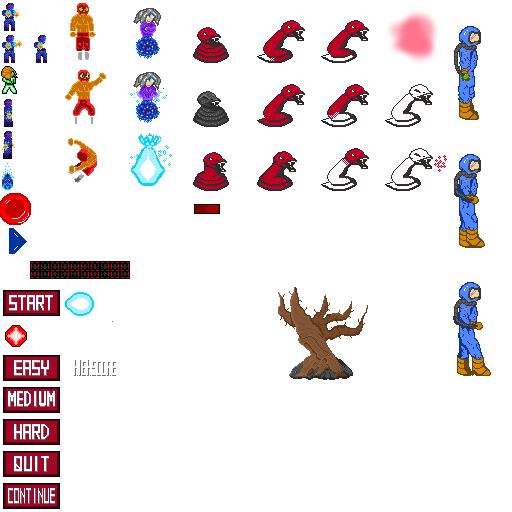
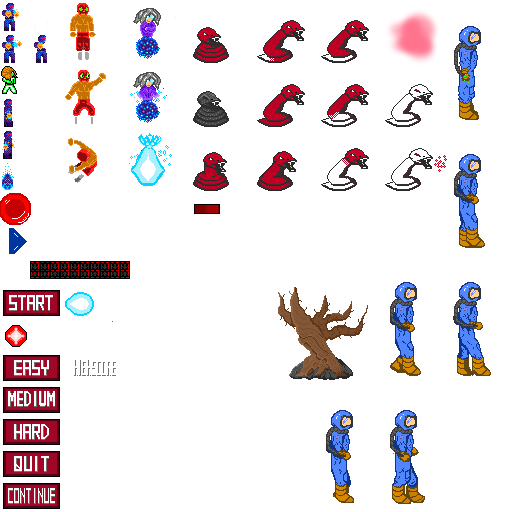
Se agregaron mas frames de animacion al personaje cuando camina.

Changed region(s): [[0.75, 0.7812, 0.8438, 1.0], [0.75, 0.5312, 0.8438, 0.75], [0.625, 0.7812, 0.6875, 1.0]]

diff --git a/app/src/main/java/com/jgame/elements/MainCharacter.java b/app/src/main/java/com/jgame/elements/MainCharacter.java
@@ -69,7 +69,10 @@ public class MainCharacter extends GameCharacter {
     public final static TextureData INIT_MOV_A = TextureDrawer.genTextureData(1,1,16);
     public final static TextureData ACTIVE_MOV_A = TextureDrawer.genTextureData(1,2,16);
     public final static TextureData MOVING_A = new TextureData(0.875f, 0.25f, 1, 0.5f);
-    public final static TextureData MOVING_B = new TextureData(0.875f, 0.5f, 1, 0.75f);;
+    public final static TextureData MOVING_B = new TextureData(0.875f, 0.5f, 1, 0.75f);
+    public final static TextureData MOVING_C = new TextureData(0.75f, 0.5f, 0.875f, 0.75f);
+    public final static TextureData MOVING_D = new TextureData(0.625f, 0.75f, 0.75f, 1f);
+    public final static TextureData MOVING_E = new TextureData(0.75f, 0.75f, 0.875f, 1f);
     public static final int SPRITE_LENGTH = 75;
     public static final int CHARACTER_LENGTH = 40;
     public static final int CHARACTER_HEIGHT = 160;
@@ -77,7 +80,7 @@ public class MainCharacter extends GameCharacter {
     public final int HEIGHT_MOVE_A = CHARACTER_HEIGHT;
     private final int KNOCKDOWN_FRAMES = 18;
     private final int INITIAL_HP = 1000;
-    private final AnimationData WALKING_ANIMATION = new AnimationData(15, true, new TextureData[]{MOVING_A, MOVING_B});
+    private final AnimationData WALKING_ANIMATION = new AnimationData(15, true, new TextureData[]{MOVING_A, MOVING_B, MOVING_C, MOVING_D, MOVING_E});
     private final float MOVING_SPEED = 0.75f;
     private final Vector2 RIGHT_MOVE_SPEED = new Vector2(MOVING_SPEED, 0);
     private final Vector2 LEFT_MOVE_SPEED = new Vector2(-MOVING_SPEED, 0);
